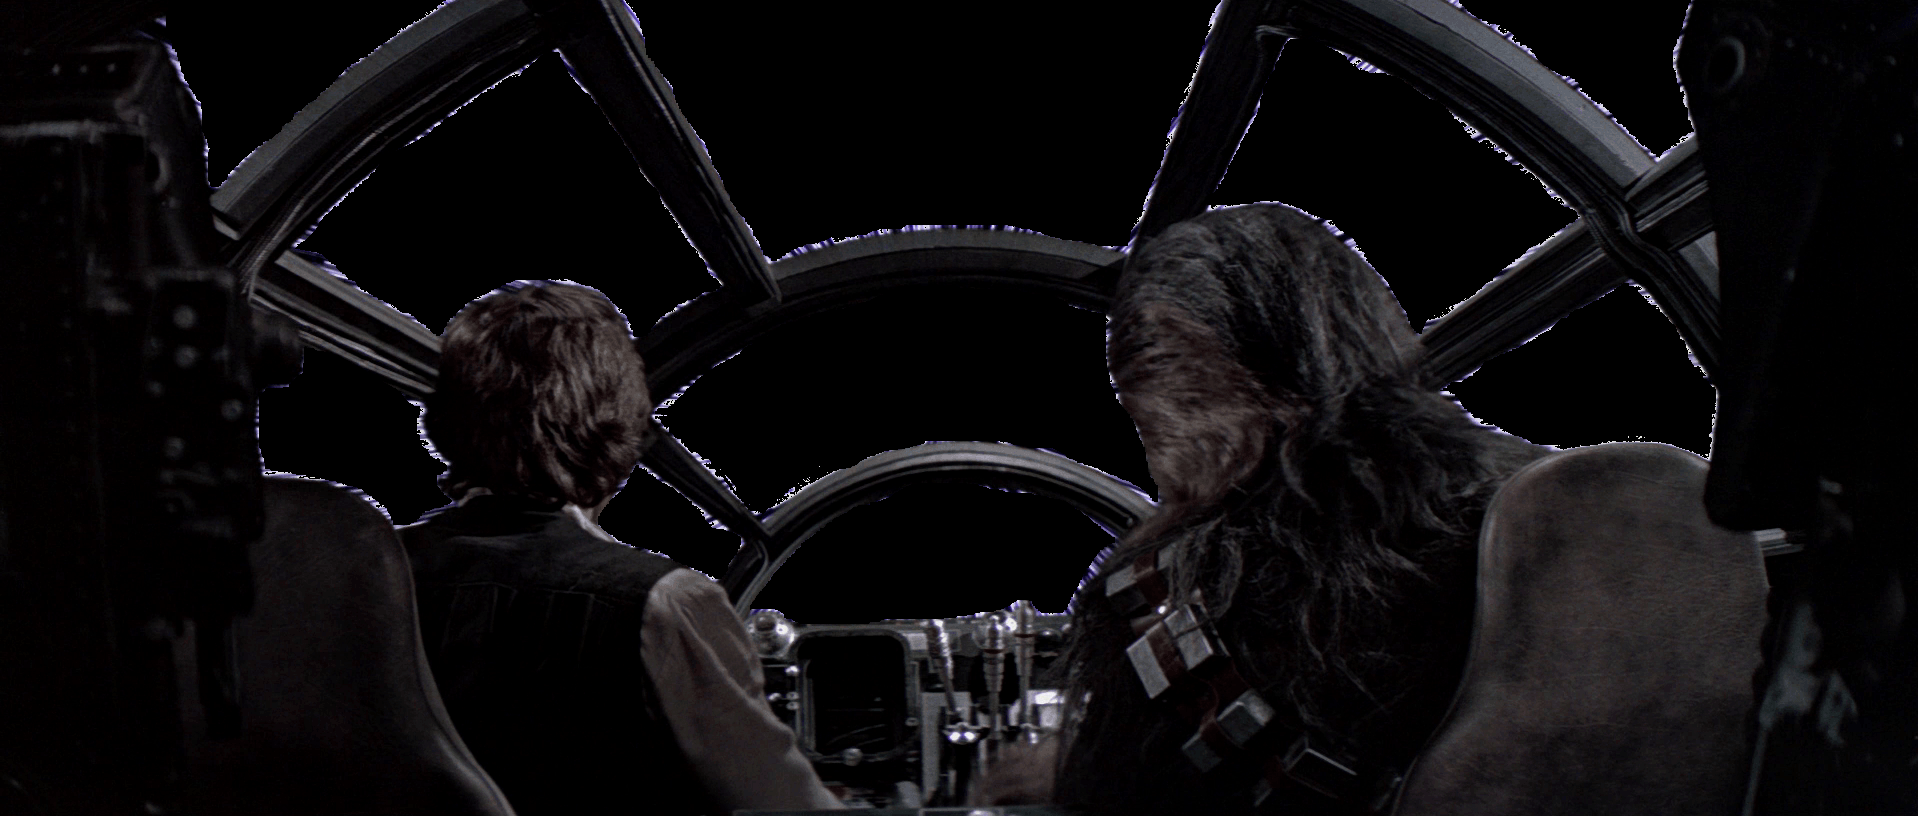
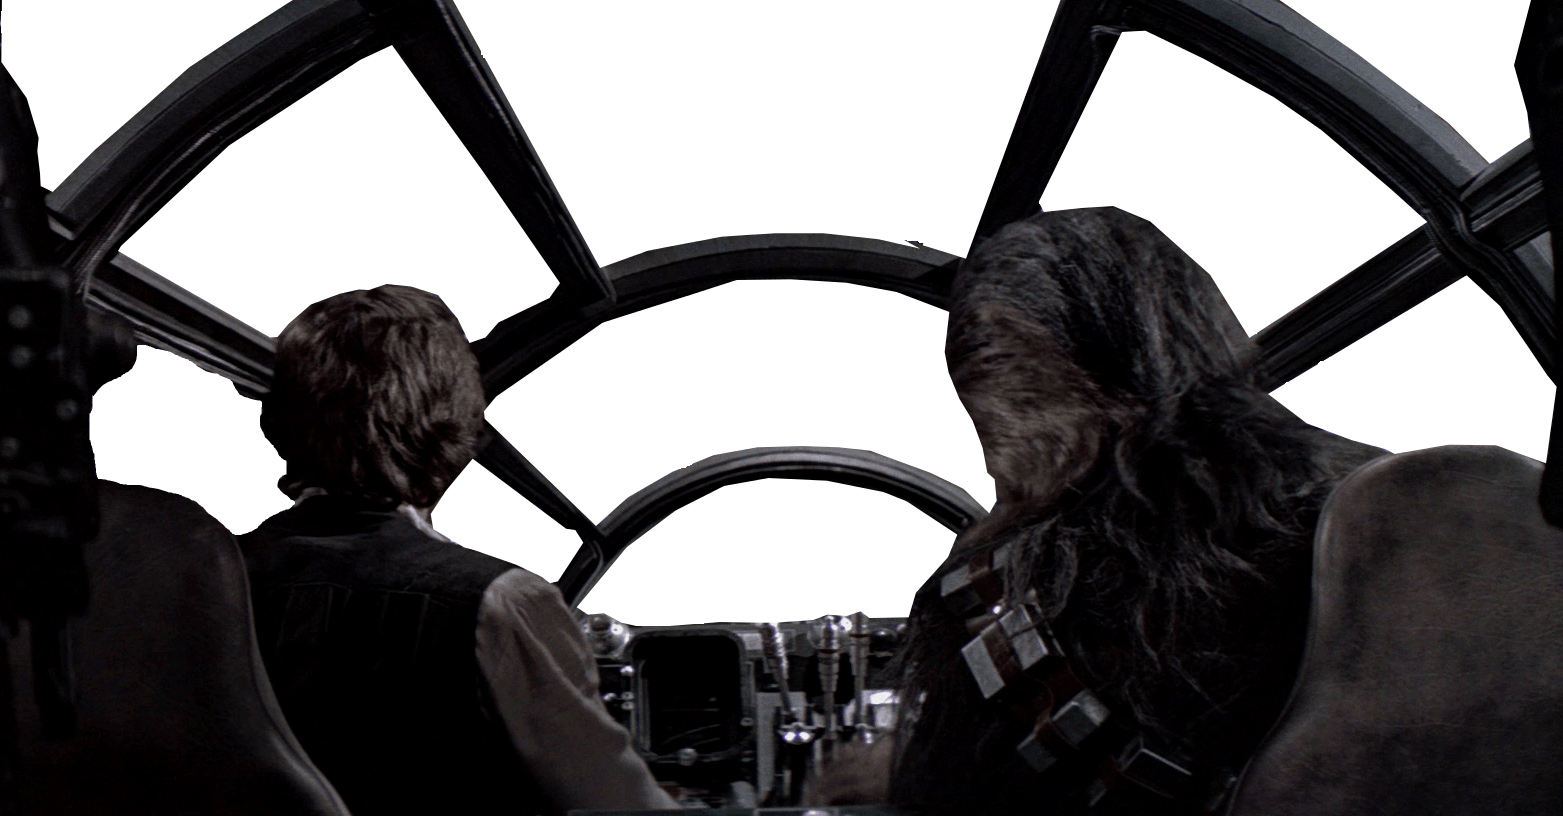
Falcon cockpit image stays as foreground image; also stretched to 100%

diff --git a/starWars/styles.css b/starWars/styles.css
@@ -32,4 +32,7 @@ body, a:link, a:visited, a:active{
 }
 .falcon{
   position:absolute;
+  z-index: 1;
+  width: 100%;
+  height: 100%;
 }
